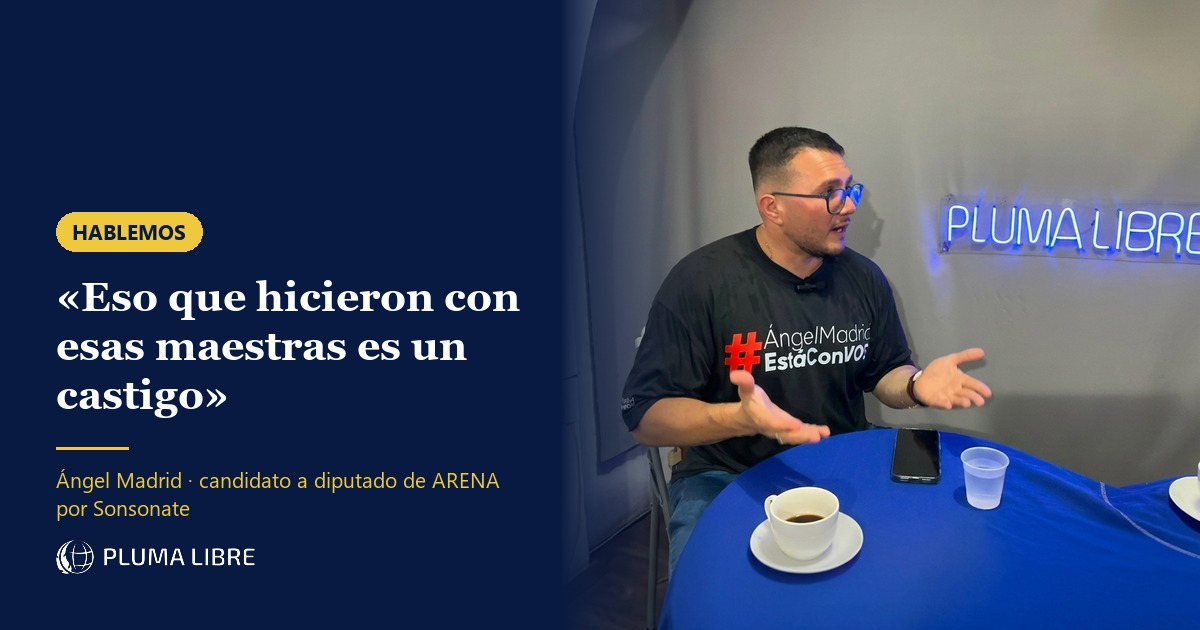
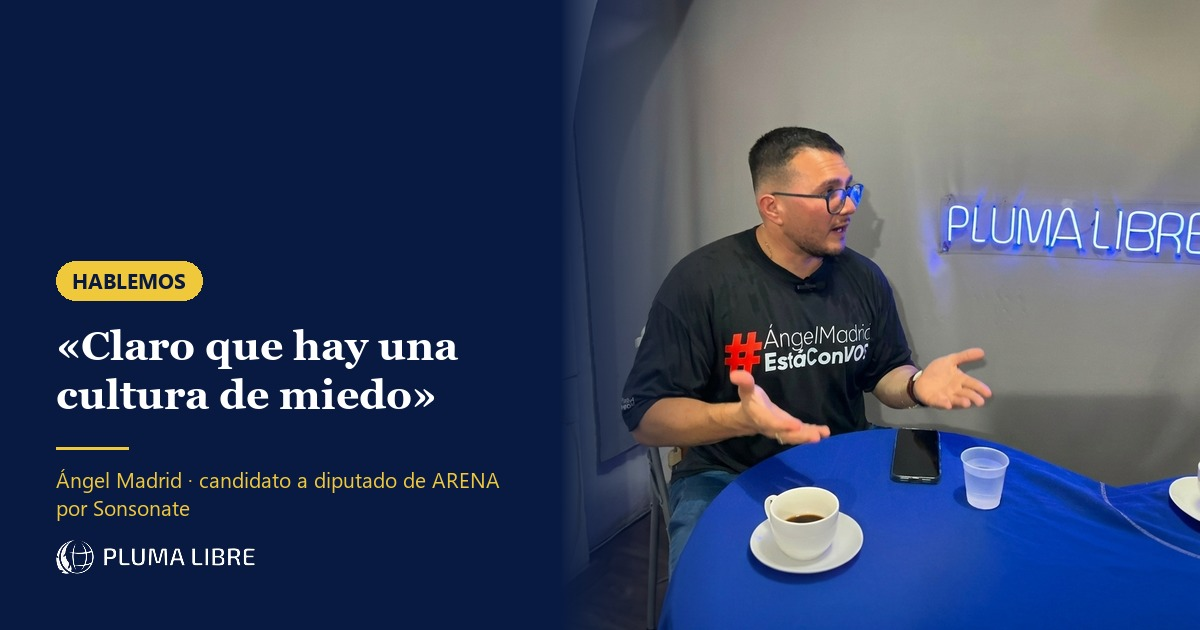
Reencuadre de la nota de Madrid: la cultura de miedo como eje
El eje pasa del castigo a la declaracion en camara sobre la cultura de
miedo, que es material propio de la entrevista y no depende de documentos
que no tenemos.

- titular, bajada, descripcion y JSON-LD actualizados
- cuerpo reordenado: el miedo abre la nota; el senalamiento al diputado
  queda dentro del relato, atribuido y sin comentario de la redaccion
- se quitan las dos coletillas defensivas: la que decia que el medio no
  habia tenido acceso a las capturas se lee como autodefensa, y la que
  decia que el candidato no las mostro insinua que se le pidieron, cosa
  que no ocurrio
- se conserva el ofrecimiento de espacio a los cinco diputados y a las
  autoridades educativas
- cards de home y seccion, arte og y feeds regenerados

Claude-Session: https://claude.ai/code/session_017D7bzBttbC5T4HsnunD9EM

Changed region(s): [[0.0308, 0.3317, 0.4317, 0.6635]]

diff --git a/articulos/madrid-maestras-despedidas-centro-escolar-rafael-campo.html b/articulos/madrid-maestras-despedidas-centro-escolar-rafael-campo.html
@@ -3,18 +3,18 @@
 <head>
   <meta charset="UTF-8">
   <meta name="viewport" content="width=device-width, initial-scale=1.0">
-  <title>«Eso que hicieron con esas maestras es un castigo»: Ángel Madrid sobre los despidos en el Centro Escolar Rafael Campo — Pluma Libre</title>
-  <meta name="description" content="El candidato a diputado de ARENA por Sonsonate dijo en HABLEMOS que las docentes fueron cesadas «sin base legal» después de invitarlo a un almuerzo por el Día del Maestro, y afirmó haber leído capturas en las que un diputado del departamento avalaba la medida.">
+  <title>«Claro que hay una cultura de miedo»: para Ángel Madrid, el despido de unas maestras en Sonsonate es «un mensaje para los maestros» — Pluma Libre</title>
+  <meta name="description" content="El candidato a diputado de ARENA por Sonsonate dijo en HABLEMOS que ningún empleado público se atreve hoy a vincularse con la oposición por temor a perder el trabajo, y puso como ejemplo el despido de unas docentes del Centro Escolar Rafael Campo que lo invitaron a un almuerzo del Día del Maestro.">
   <meta name="theme-color" content="#081A41">
   <link rel="canonical" href="https://plumalibre.press/articulos/madrid-maestras-despedidas-centro-escolar-rafael-campo.html">
-  <meta property="og:title" content="«Eso que hicieron con esas maestras es un castigo»: Ángel Madrid sobre los despidos en el Centro Escolar Rafael Campo — Pluma Libre">
-  <meta property="og:description" content="El candidato a diputado de ARENA por Sonsonate dijo en HABLEMOS que las docentes fueron cesadas «sin base legal» después de invitarlo a un almuerzo por el Día del Maestro.">
+  <meta property="og:title" content="«Claro que hay una cultura de miedo»: para Ángel Madrid, el despido de unas maestras en Sonsonate es «un mensaje para los maestros» — Pluma Libre">
+  <meta property="og:description" content="El candidato de ARENA por Sonsonate dijo en HABLEMOS que ningún empleado público se atreve hoy a vincularse con la oposición por temor a perder el trabajo.">
   <meta property="og:image" content="https://plumalibre.press/assets/nota-madrid-hablemos-maestras-og.jpg">
   <meta property="og:image:width" content="1200">
   <meta property="og:image:height" content="630">
   <meta property="og:type" content="article">
   <meta property="article:published_time" content="2026-07-31">
-  <script type="application/ld+json">{"@context":"https://schema.org","@type":"NewsArticle","headline":"«Eso que hicieron con esas maestras es un castigo»: Ángel Madrid sobre los despidos en el Centro Escolar Rafael Campo","datePublished":"2026-07-31","author":{"@type":"Organization","name":"Pluma Libre"},"publisher":{"@type":"Organization","name":"Pluma Libre","logo":{"@type":"ImageObject","url":"https://plumalibre.press/assets/logo-simbolo.png"}},"image":"https://plumalibre.press/assets/nota-madrid-hablemos-maestras.jpg"}</script>
+  <script type="application/ld+json">{"@context":"https://schema.org","@type":"NewsArticle","headline":"«Claro que hay una cultura de miedo»: para Ángel Madrid, el despido de unas maestras en Sonsonate es «un mensaje para los maestros»","datePublished":"2026-07-31","author":{"@type":"Organization","name":"Pluma Libre"},"publisher":{"@type":"Organization","name":"Pluma Libre","logo":{"@type":"ImageObject","url":"https://plumalibre.press/assets/logo-simbolo.png"}},"image":"https://plumalibre.press/assets/nota-madrid-hablemos-maestras.jpg"}</script>
   <!-- Google Analytics --><script async src="https://www.googletagmanager.com/gtag/js?id=G-TZRTJLP5KT"></script><script>window.dataLayer=window.dataLayer||[];function gtag(){dataLayer.push(arguments);}gtag("js",new Date());gtag("config","G-TZRTJLP5KT");</script>
   <link rel="icon" href="../assets/favicon.ico" sizes="any">
   <link rel="icon" type="image/png" sizes="32x32" href="../assets/favicon-32x32.png">
@@ -45,29 +45,29 @@
   </div></header>
   <main class="article-page">
     <div class="wrap">
-      <div class="article-header"><span class="badge badge-brand">Entrevistas</span><h1>«Eso que hicieron con esas maestras es un castigo»: Ángel Madrid sobre los despidos en el Centro Escolar Rafael Campo</h1><p class="subtitle">El candidato a diputado de ARENA por Sonsonate dijo en HABLEMOS que las docentes fueron cesadas «sin base legal» después de invitarlo a un almuerzo por el Día del Maestro, y afirmó haber leído capturas de pantalla en las que un diputado del departamento avalaba el despido.</p><div class="article-meta"><strong>Por Pluma Libre</strong> · 31 de julio, 2026 · Sonsonate</div></div>
+      <div class="article-header"><span class="badge badge-brand">Entrevistas</span><h1>«Claro que hay una cultura de miedo»: para Ángel Madrid, el despido de unas maestras en Sonsonate es «un mensaje para los maestros»</h1><p class="subtitle">El candidato a diputado de ARENA contó en HABLEMOS que leyó capturas de pantalla en las que uno de los cinco diputados del departamento respondía que estaba bien que despidieran a unas docentes del Centro Escolar Rafael Campo por haberlo invitado a un almuerzo del Día del Maestro. No dijo de cuál de los cinco se trata.</p><div class="article-meta"><strong>Por Pluma Libre</strong> · 31 de julio, 2026 · Sonsonate</div></div>
       <figure class="article-img"><img src="../assets/nota-madrid-hablemos-maestras.jpg" alt="Ángel Madrid durante la entrevista de HABLEMOS en el estudio de Pluma Libre" loading="eager"><figcaption>Ángel Madrid durante la cuarta edición de HABLEMOS, este viernes 31 de julio. / Pluma Libre</figcaption></figure>
       <div class="article-body">
-        <p>El candidato a diputado de ARENA por Sonsonate, Ángel Madrid, afirmó que el despido de un grupo de maestras del Centro Escolar Rafael Campo fue «un castigo» por haberlo invitado a una actividad por el Día del Maestro, y sostuvo que la separación de sus cargos se hizo sin sustento legal.</p>
+        <p>El candidato a diputado de ARENA por Sonsonate, Ángel Madrid, sostuvo que en el departamento existe «una cultura de miedo» que impide a los empleados públicos acercarse a cualquier fuerza distinta a la que gobierna, y puso como ejemplo el despido de un grupo de maestras del Centro Escolar Rafael Campo después de que lo invitaran a un almuerzo por el Día del Maestro.</p>
         <p>Las declaraciones las dio este viernes 31 de julio en HABLEMOS, el espacio de entrevistas de Pluma Libre, en su cuarta edición. La consulta surgió al preguntarle qué costo tiene hoy para un trabajador público pensar distinto al oficialismo.</p>
+        <h2>«Claro que hay una cultura de miedo»</h2>
+        <p>Consultado directamente sobre si en el territorio se está promoviendo una cultura de miedo, Madrid respondió que sí y planteó el despido como una señal dirigida al resto del magisterio.</p>
+        <blockquote>«El hecho que hayan despedido a las maestras es un mensaje para los maestros. ¿Qué maestro va a querer asistir a una actividad de ARENA, del Frente o de Vamos?»</blockquote>
+        <p>Extendió el señalamiento al resto del empleo público: trabajadores de salud, personal de alcaldías, policías y soldados. «¿Qué trabajador público de Sonsonate va a querer tener algún vínculo con la oposición o con sectores que piensan distinto a los que gobiernan? Ninguno», dijo, y enumeró los motivos que a su juicio explican esa reticencia: «Porque lo van a despedir de su trabajo, porque le van a quitar su trabajo, porque lo van a meter preso, porque le van a inventar algo».</p>
+        <blockquote>«Porque no hay en El Salvador y en Sonsonate libertad de pensamiento, no hay libertad de asociación y no hay libertad de expresión.»</blockquote>
         <h2>«Eran las 12 del mediodía, no había alumnos en el centro escolar»</h2>
         <p>Madrid relató que la invitación le llegó en su calidad de abogado y que le pidieron llevar algo para compartir con alrededor de veinte maestros, con el acuerdo de no hablar de política. Dijo que el video de su intervención es público y que en él no menciona nada partidario.</p>
         <blockquote>«Ni llego con colores políticos y las tacitas con chocolate que regalo llevan mi marca como abogado, porque es de donde yo como, es lo que yo promuevo y allí me invitaron como abogado.»</blockquote>
         <p>Sobre las circunstancias de la actividad, planteó que no encuentra la falta: «Eran las 12 del mediodía, no había alumnos en el centro escolar, estaban solo los maestros en un almuerzo. ¿Qué fue lo ilegal? ¿Qué fue lo incorrecto?».</p>
         <h2>«Es una cesación laboral sin base legal»</h2>
-        <p>El candidato afirmó haber leído capturas de pantalla en las que personas allegadas a las docentes se comunicaron con uno de los diputados de Sonsonate y en las que, según su lectura, el legislador respondía que estaba bien que las hubieran despedido por haberlo invitado, con un insulto de por medio. Madrid no identificó al diputado ni mostró las capturas durante la entrevista.</p>
+        <p>El candidato contó que personas allegadas a las docentes se comunicaron con uno de los cinco diputados de Sonsonate y que, según lo que él leyó, el legislador respondía que estaba bien que las hubieran despedido por haberlo invitado, con un insulto de por medio. Madrid no dijo de cuál de los cinco se trata.</p>
         <blockquote>«Eso que hicieron con esas maestras es un castigo porque ellos castigan a aquellas personas que piensan distinto a ellos. No respetan la libertad de pensamiento, no respetan la libertad de expresión, de asociación y quieren obligar a que todos piensen como ellos.»</blockquote>
         <p>Sobre la figura laboral, sostuvo: «Es un despido injustificado, es una cesación laboral sin base legal. Lo único que logramos es que les dieran su tiempo, pero fue un castigo».</p>
-        <h2>«Claro que hay una cultura de miedo»</h2>
-        <p>Consultado sobre si en el territorio se está promoviendo una cultura de miedo, Madrid respondió que sí y usó el caso de las maestras como señal dirigida al resto del magisterio.</p>
-        <blockquote>«El hecho que hayan despedido a las maestras es un mensaje para los maestros. ¿Qué maestro va a querer asistir a una actividad de ARENA, del Frente o de Vamos?»</blockquote>
-        <p>Extendió el señalamiento a trabajadores de salud, empleados de alcaldías, policías y soldados, y cerró esa parte de la entrevista afirmando que «no hay en El Salvador y en Sonsonate libertad de pensamiento, no hay libertad de asociación y no hay libertad de expresión».</p>
         <h2>El contraste que plantea el candidato</h2>
         <p>Madrid acusó a diputados y candidatos de Nuevas Ideas de hacer proselitismo dentro de los centros escolares del departamento, y contrapuso ese señalamiento con el caso de las docentes.</p>
         <blockquote>«Ahí andan en los centros escolares haciendo campaña, llevando sus fotos con colores partidarios, dando víveres dentro de los centros escolares, dando medicina dentro de los centros escolares, haciendo mítines dentro de los centros escolares.»</blockquote>
         <p>«¿Por qué ellos sí pueden?», preguntó, y afirmó que en Sonsonate «no hay libertad de pensamiento, que no hay libertad de expresión y asociación».</p>
-        <h2>Nota de la redacción</h2>
-        <p>Pluma Libre no ha tenido acceso a las capturas de pantalla que menciona el candidato ni ha verificado su contenido: lo publicado en esta nota corresponde a sus declaraciones. El diputado al que alude no fue identificado durante la entrevista. Este medio mantiene sus puertas abiertas para la versión de los diputados de Sonsonate y de las autoridades educativas.</p>
+        <p>Pluma Libre ofrece su espacio a los cinco diputados de Sonsonate y a las autoridades educativas del departamento para dar su versión sobre este caso.</p>
         <p>No es la primera vez que el tema aparece en este espacio: el pasado 17 de julio, el también candidato de ARENA <a href="ever-castillo-en-hablemos-entregar-todo-el-poder-a-una-sola-fuerza-politica-fue-errado.html">Ever Castillo planteó en HABLEMOS</a> señalamientos por despidos de maestros sin debido proceso y por una cultura del miedo en el departamento.</p>
         <p>Madrid, abogado, compite por una diputación de Sonsonate en la casilla 2 de ARENA de cara a las elecciones del 28 de febrero de 2027. La entrevista completa, de poco más de una hora, está disponible en la <a href="https://www.facebook.com/share/v/1HfLETpo92/" target="_blank" rel="noopener">página de Facebook de Pluma Libre</a>.</p>
       </div>

diff --git a/index.html b/index.html
@@ -98,7 +98,7 @@
         <div class="home-hero-grid">
           <article class="home-hero-principal"><div class="img"><img src="assets/nota-dia-del-periodista-2026.jpg" alt="" loading="eager"></div><div class="body"><span class="kicker">Opinión</span><h2><a href="articulos/editorial-dia-del-periodista-salvadoreno-2026.html">Día del Periodista: a 202 años del primer periódico, informar en El Salvador sigue siendo un acto de riesgo</a></h2><p class="meta">Editorial · Pluma Libre · 31 de julio, 2026</p></div></article>
           <aside class="home-hero-sidebar">
-            <article class="home-hero-secondary"><div class="thumb"><img src="assets/nota-madrid-hablemos-maestras.jpg" alt="" loading="lazy"></div><div class="info"><span class="kicker">Entrevistas</span><h3><a href="articulos/madrid-maestras-despedidas-centro-escolar-rafael-campo.html">«Eso que hicieron con esas maestras es un castigo»: Ángel Madrid sobre los despidos en el Centro Escolar Rafael Campo</a></h3></div></article>
+            <article class="home-hero-secondary"><div class="thumb"><img src="assets/nota-madrid-hablemos-maestras.jpg" alt="" loading="lazy"></div><div class="info"><span class="kicker">Entrevistas</span><h3><a href="articulos/madrid-maestras-despedidas-centro-escolar-rafael-campo.html">«Claro que hay una cultura de miedo»: para Ángel Madrid, el despido de unas maestras en Sonsonate es «un mensaje para los maestros»</a></h3></div></article>
             <article class="home-hero-secondary"><div class="thumb"><img src="assets/nota-ues-30-julio-1975.jpg" alt="" loading="lazy"></div><div class="info"><span class="kicker">Social</span><h3><a href="articulos/ues-conmemora-51-anos-masacre-30-julio-1975.html">La UES conmemora 51 años de la masacre del 30 de julio entre reclamos de memoria y justicia</a></h3></div></article>
             <article class="home-hero-secondary"><div class="thumb"><img src="assets/nota-ortiz-fotografos-asamblea.jpg" alt="" loading="lazy"></div><div class="info"><span class="kicker">Política</span><h3><a href="articulos/claudia-ortiz-acusa-fotografos-asamblea-espiar-celular.html">Claudia Ortiz acusa a la Asamblea de usar a sus fotógrafos para espiar su celular en plena sesión</a></h3></div></article>
           </aside>
@@ -123,7 +123,7 @@
         <h2>Últimas Noticias</h2>
       </div>
       <div class="news-grid">
-        <article class="card"><div class="thumb"><img src="assets/nota-madrid-hablemos-maestras.jpg" alt="" loading="lazy"></div><div class="info"><span class="badge-sm">Entrevistas</span><h3><a href="articulos/madrid-maestras-despedidas-centro-escolar-rafael-campo.html">«Eso que hicieron con esas maestras es un castigo»: Ángel Madrid sobre los despidos en el Centro Escolar Rafael Campo</a></h3><p class="meta">31 de julio, 2026</p></div></article>
+        <article class="card"><div class="thumb"><img src="assets/nota-madrid-hablemos-maestras.jpg" alt="" loading="lazy"></div><div class="info"><span class="badge-sm">Entrevistas</span><h3><a href="articulos/madrid-maestras-despedidas-centro-escolar-rafael-campo.html">«Claro que hay una cultura de miedo»: para Ángel Madrid, el despido de unas maestras en Sonsonate es «un mensaje para los maestros»</a></h3><p class="meta">31 de julio, 2026</p></div></article>
         <article class="card"><div class="thumb"><img src="assets/nota-sol-artificial-china.jpg" alt="" loading="lazy"></div><div class="info"><span class="badge-sm">Tecnología</span><h3><a href="articulos/china-sol-artificial-iman-fusion-nuclear.html">China terminó el imán más grande del mundo para su «sol artificial»: 582 toneladas para sostener fuego a 100 millones de grados</a></h3><p class="meta">31 de julio, 2026</p></div></article>
         <article class="card"><div class="thumb"><img src="assets/nota-proyecto-panama-anthropic.jpg" alt="" loading="lazy"></div><div class="info"><span class="badge-sm">Tecnología</span><h3><a href="articulos/proyecto-panama-anthropic-escaneo-libros.html">Proyecto Panamá: la operación secreta con la que Anthropic compró, cortó y escaneó millones de libros para entrenar su IA</a></h3><p class="meta">31 de julio, 2026</p></div></article>
         <article class="card"><div class="thumb"><img src="assets/nota-dia-del-periodista-2026.jpg" alt="" loading="lazy"></div><div class="info"><span class="badge-sm">Opinión</span><h3><a href="articulos/editorial-dia-del-periodista-salvadoreno-2026.html">Día del Periodista: a 202 años del primer periódico, informar en El Salvador sigue siendo un acto de riesgo</a></h3><p class="meta">31 de julio, 2026</p></div></article>

diff --git a/secciones/entrevistas.html b/secciones/entrevistas.html
@@ -41,8 +41,8 @@
   <main><div class="wrap"><div class="section-head"><h2>Entrevistas</h2></div>
     <article class="card-lg">
       <div class="img-wrap"><img src="../assets/nota-madrid-hablemos-maestras.jpg" alt="Ángel Madrid en HABLEMOS: «Eso que hicieron con esas maestras es un castigo»" loading="lazy"></div>
-      <h3><a href="../articulos/madrid-maestras-despedidas-centro-escolar-rafael-campo.html">«Eso que hicieron con esas maestras es un castigo»: Ángel Madrid sobre los despidos en el Centro Escolar Rafael Campo</a></h3>
-      <p class="excerpt">El candidato a diputado de ARENA por Sonsonate dijo que las docentes fueron cesadas «sin base legal» después de invitarlo a un almuerzo por el Día del Maestro, y afirmó haber leído capturas de pantalla en las que un diputado del departamento avalaba el despido.</p>
+      <h3><a href="../articulos/madrid-maestras-despedidas-centro-escolar-rafael-campo.html">«Claro que hay una cultura de miedo»: para Ángel Madrid, el despido de unas maestras en Sonsonate es «un mensaje para los maestros»</a></h3>
+      <p class="excerpt">El candidato a diputado de ARENA dijo en HABLEMOS que ningún empleado público de Sonsonate se atreve hoy a vincularse con la oposición por temor a perder el trabajo, y puso como ejemplo el despido de unas docentes del Centro Escolar Rafael Campo que lo invitaron a un almuerzo del Día del Maestro.</p>
       <p class="meta">Por Pluma Libre · 31 de julio, 2026</p>
     </article>
     <article class="card-lg">
